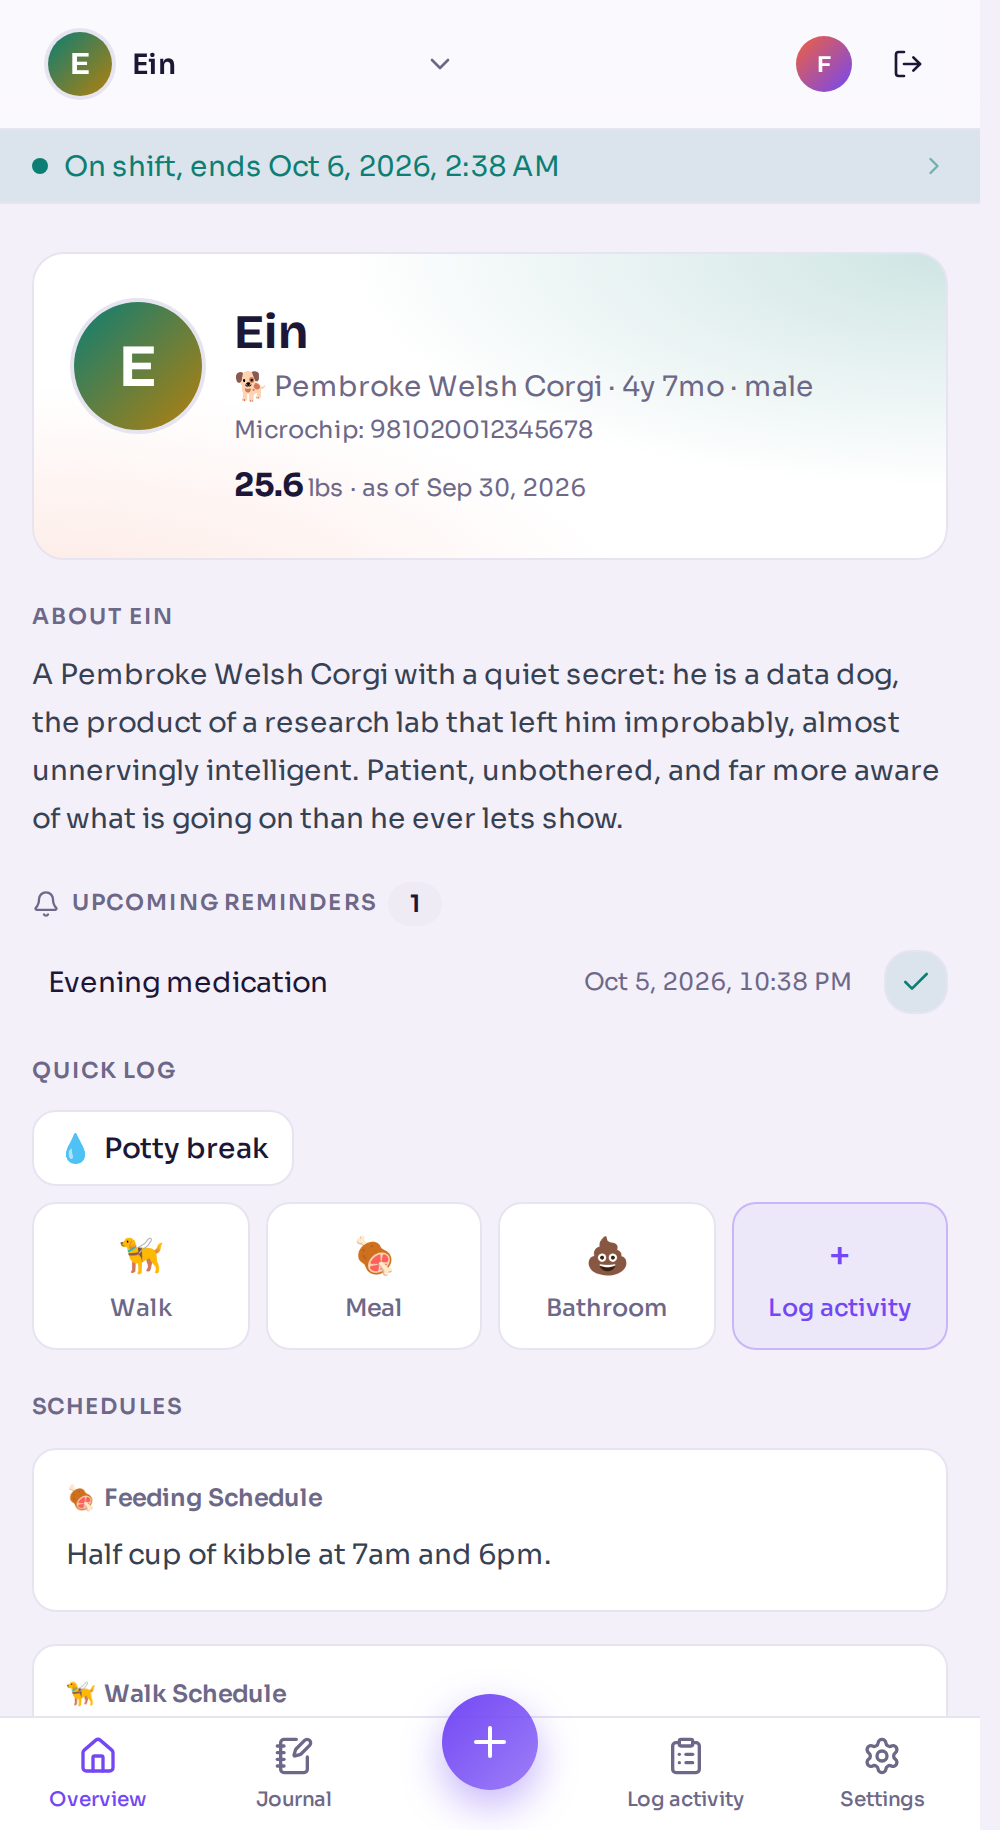
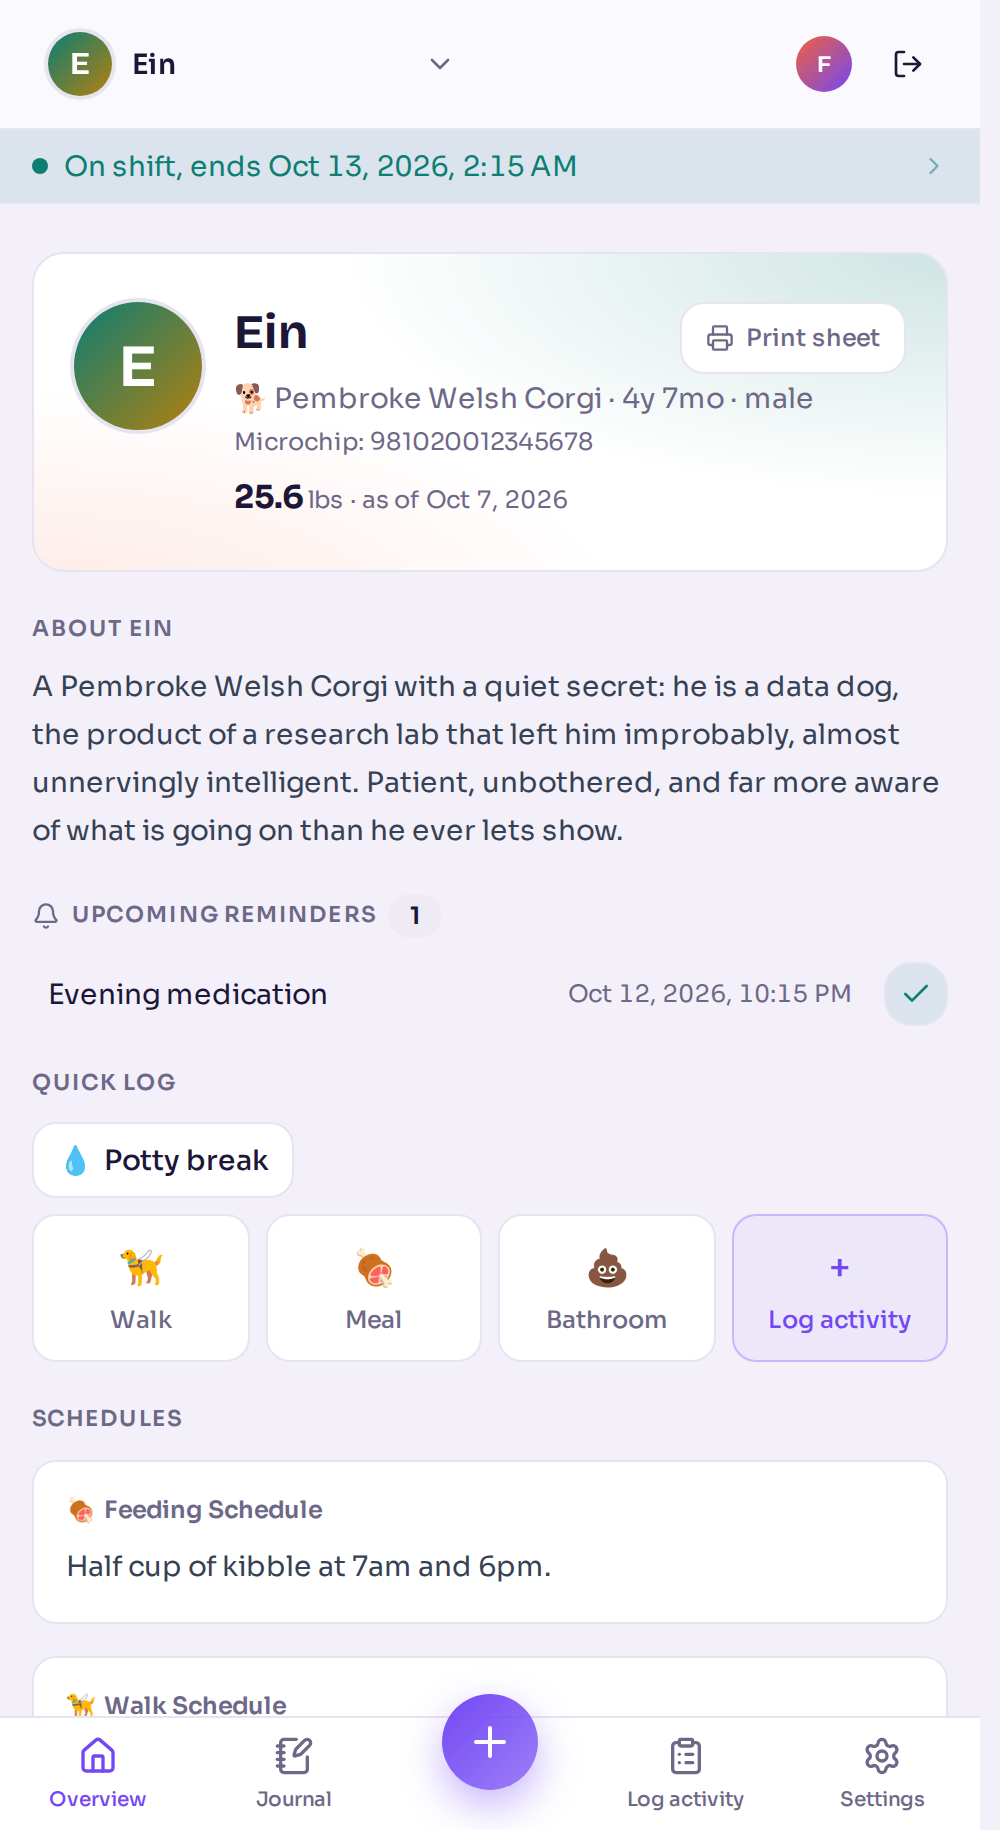
docs: refresh screenshots for 1.8.0
Add the caretaker sheet to the capture set, and refresh the companion overview and caretaker dashboard shots for the new print buttons.

diff --git a/tests/screenshots/capture.spec.ts b/tests/screenshots/capture.spec.ts
@@ -29,6 +29,7 @@ const SHOTS: Shot[] = [
 	{ name: 'member_health', role: 'member', path: `/${EIN}/health` },
 	{ name: 'member_notes', role: 'member', path: `/${EIN}/notes` },
 	{ name: 'member_note', role: 'member', path: `/${EIN}/notes/${SEED.notes.einCommands.id}` },
+	{ name: 'member_sheet', role: 'member', path: `/${EIN}/sheet` },
 	{ name: 'member_admin', role: 'admin', path: '/admin/users' },
 	{ name: 'caretaker_dashboard', role: 'caretaker', path: `/care/${EIN}` },
 	{ name: 'caretaker_dashboard_mobile', role: 'caretaker', path: `/care/${EIN}`, mobile: true },

diff --git a/docs/SCREENSHOTS.md b/docs/SCREENSHOTS.md
@@ -37,6 +37,11 @@
 ![Note dark](screenshots/member_note_dark.png)
 ![Note light](screenshots/member_note_light.png)
 
+### Caretaker sheet
+
+![Caretaker sheet dark](screenshots/member_sheet_dark.png)
+![Caretaker sheet light](screenshots/member_sheet_light.png)
+
 ### Admin panel
 
 ![Admin panel dark](screenshots/member_admin_dark.png)
